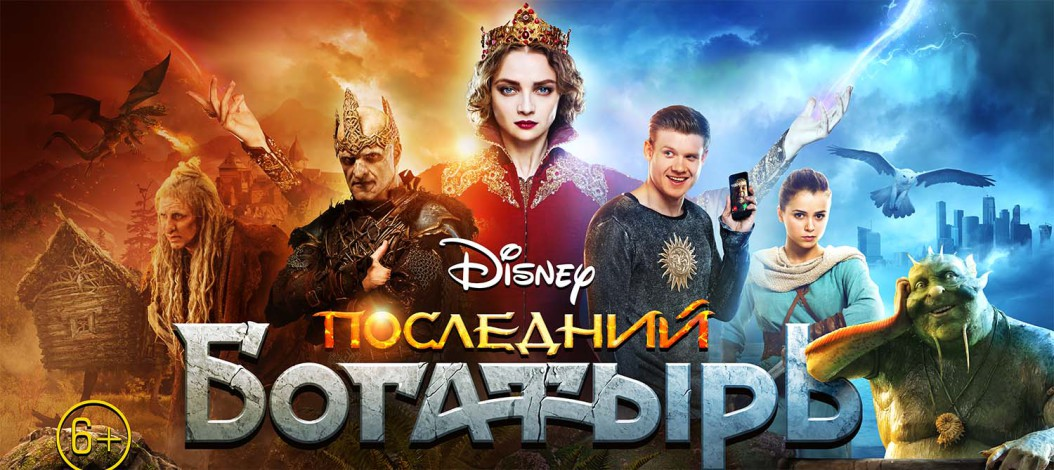
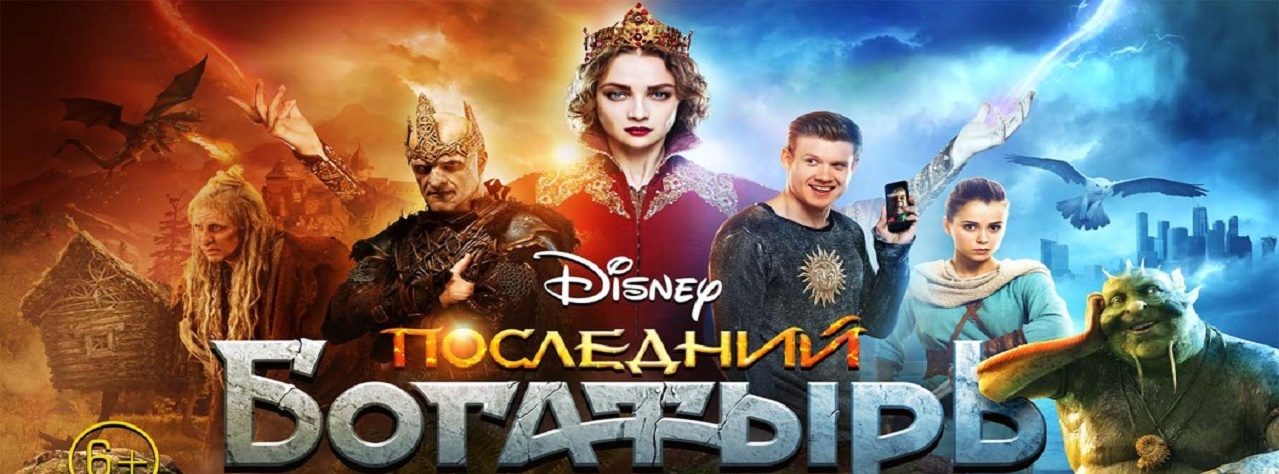
Обновление дизайна, добавление трейлеров

diff --git a/Films/web/style.css b/Films/web/style.css
@@ -1,4 +1,3 @@
-body{ }
 
 @font-face {
     font-family: RadikalW01_Black_bold;
@@ -59,6 +58,8 @@ src: url('../fonts/radikal_font_family/OPENSANS-SEMIBOLD.TTF');
 }
 
 .banner_home img {
+    margin-top: 11%;
+    margin-bottom: 2%;
     width: 100%;
 }
 
@@ -103,8 +104,7 @@ src: url('../fonts/radikal_font_family/OPENSANS-SEMIBOLD.TTF');
     color: #fff;
     font-size: 12px;
 }
-.classus p{color:#4c1f1e;padding-top: 10px;}
-.why_bookonline p{color:#4c1f1e;   font-family: RadikalW01-Medium; font-size:18px;}
+
 .medias ul li a:hover {    background: #000;}
 .jain_container .carousel-caption{    top: 38%;}
 
@@ -376,10 +376,8 @@ a.offers_link{
 .hotelslog .col-md-4{ padding:0px;}
 
 
-
-
-<!--@import url(http://fonts.googleapis.com/css?family=Open+Sans:400,700);-->
 body {
+    background-color: beige;
   font-family: 'Open Sans', 'sans-serif';
 }
 .mega-dropdown {
